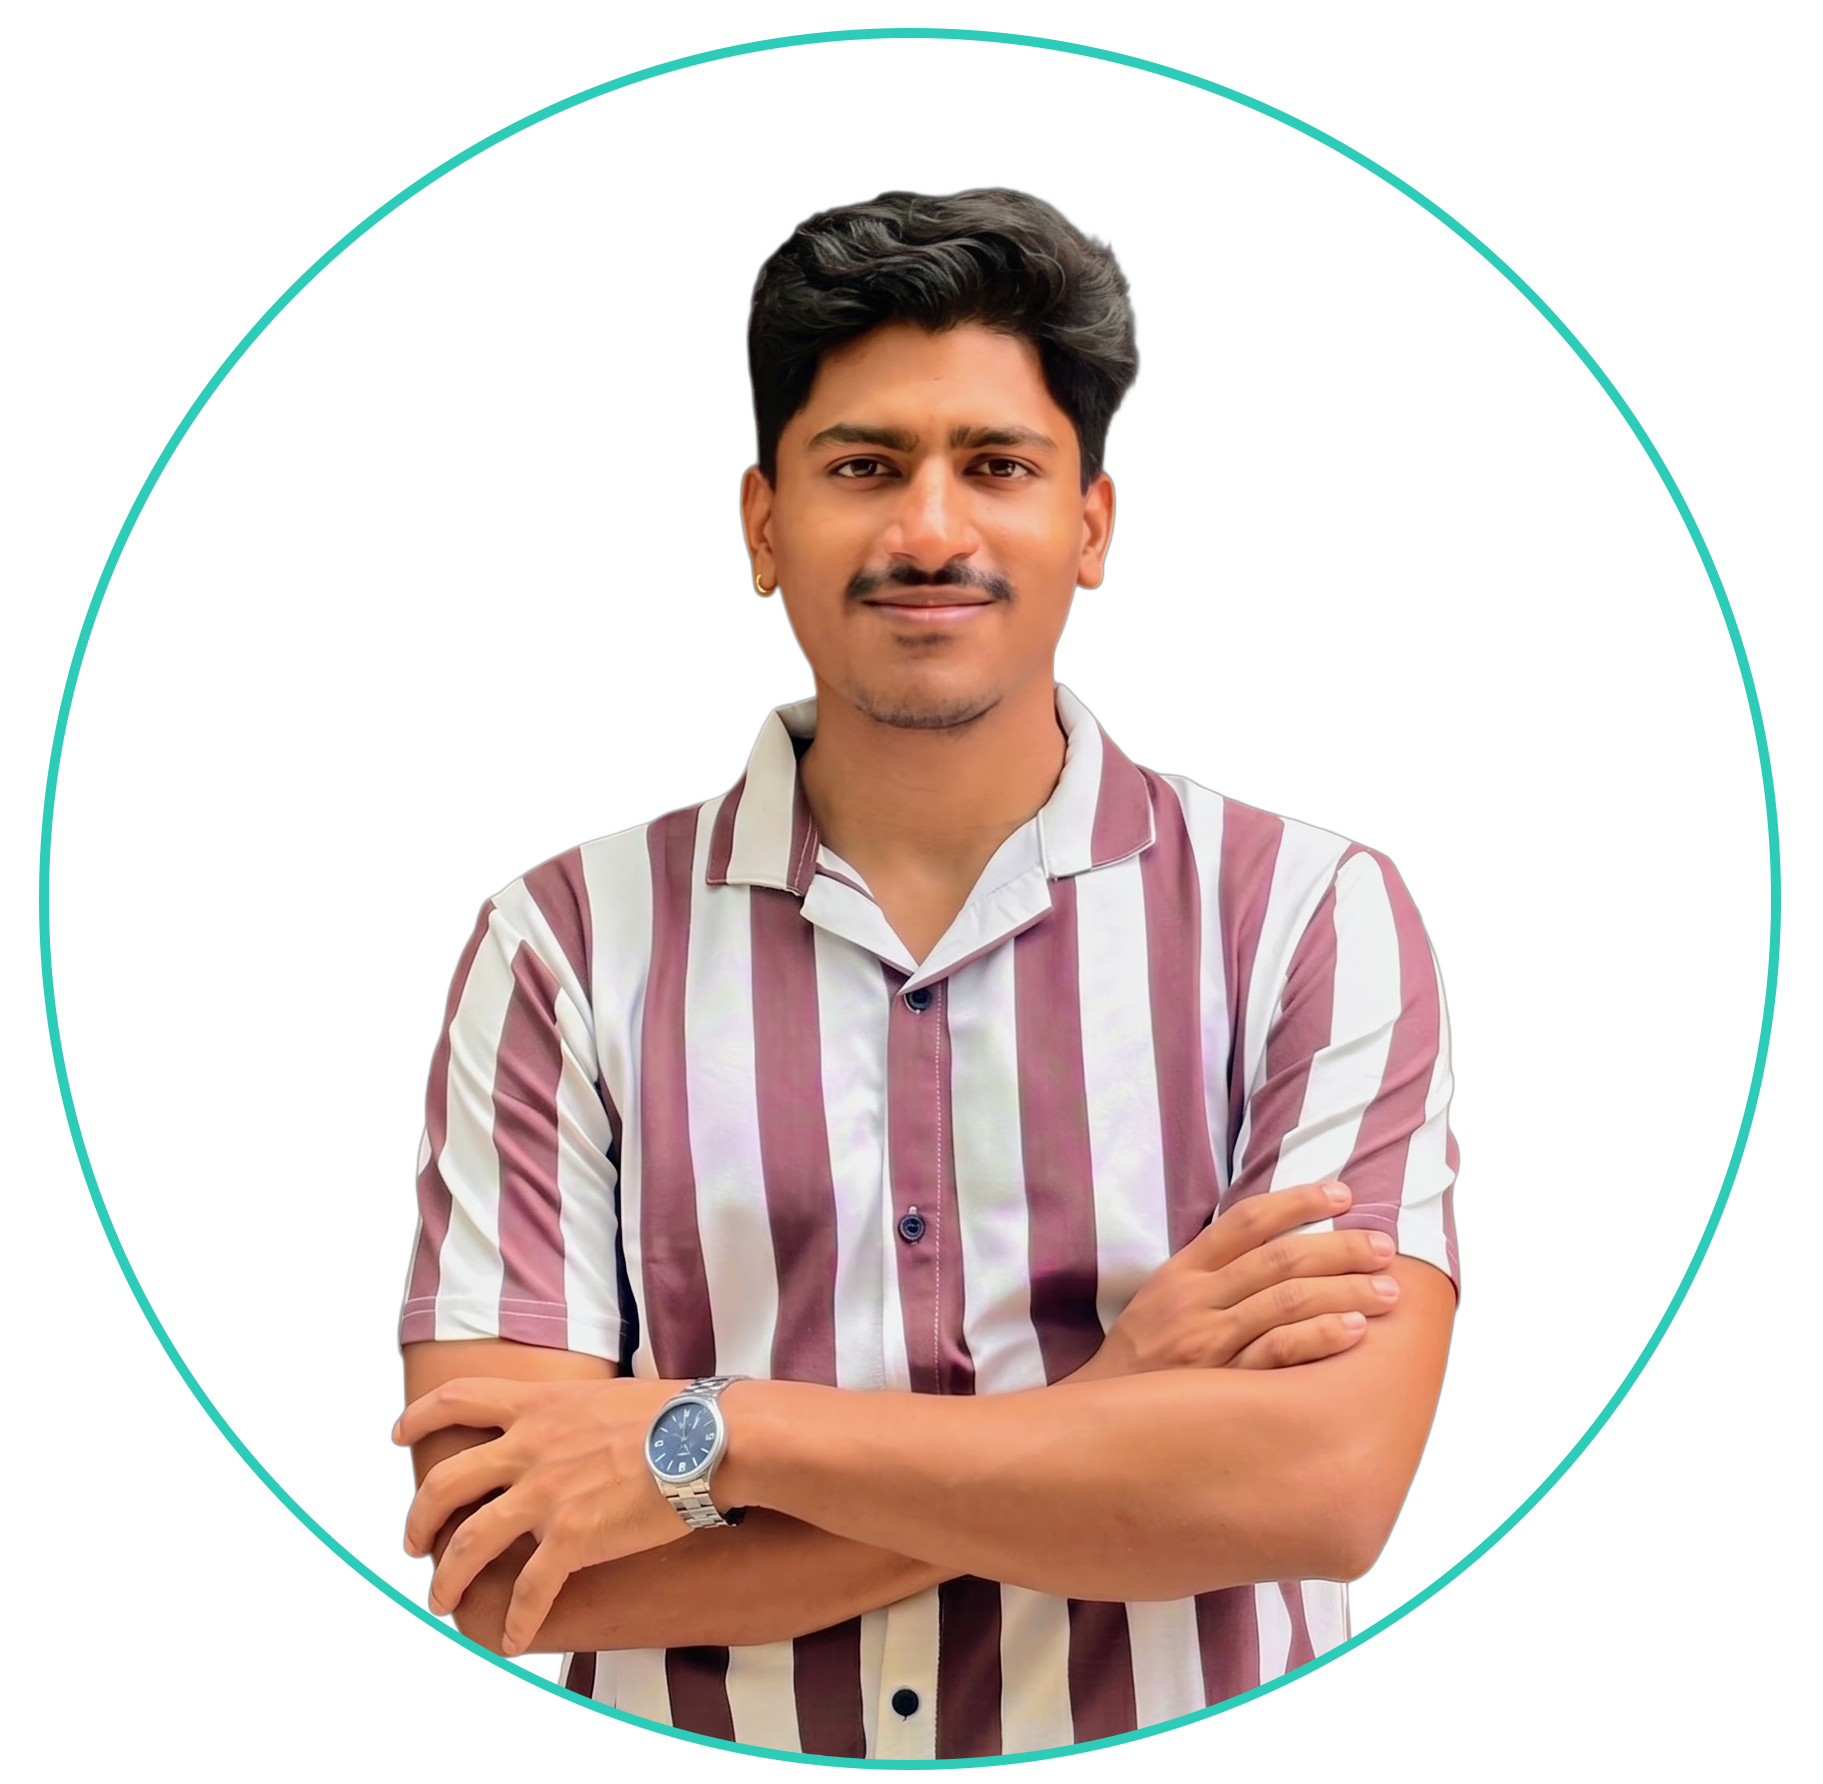
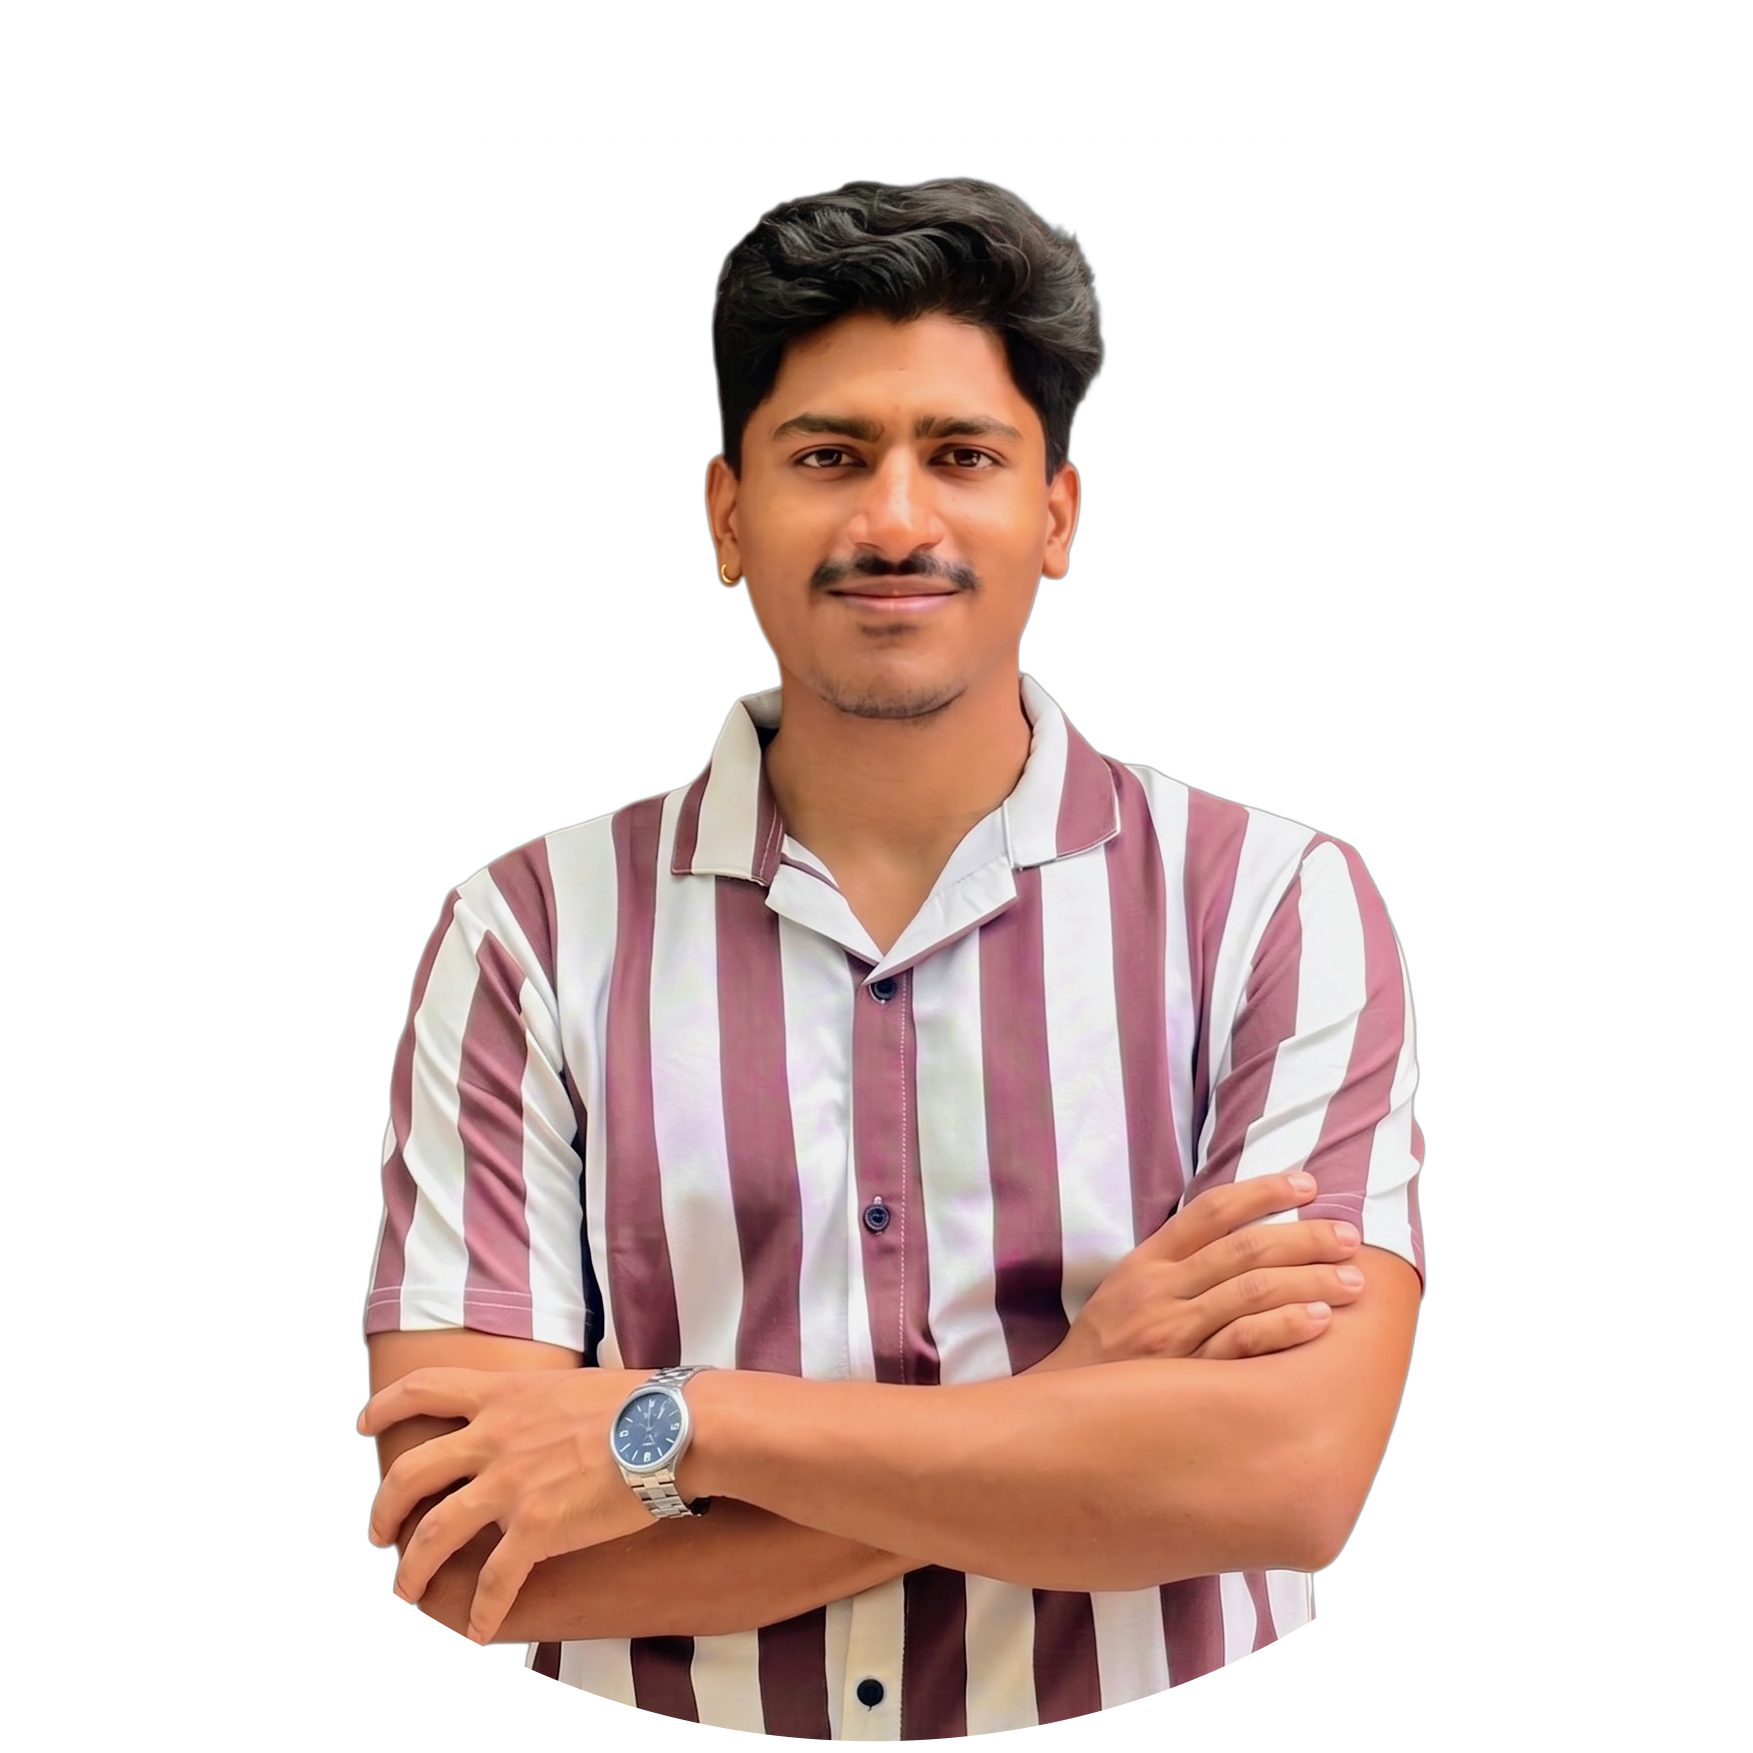
changes

diff --git a/assets/css/main.scss b/assets/css/main.scss
@@ -31,3 +31,20 @@
 @use "tabs";
 @use "teachings";
 @use "typograms";
+
+// Custom profile picture border matching theme Lorenz simulation colors
+.profile img.rounded-circle {
+  outline: 2px solid #0f766e; // Light theme color (dark teal)
+  outline-offset: -2px;       // Inset stroke overlapping the image
+  border: none;
+  padding: 0;
+}
+
+html[data-theme='dark'] {
+  .profile img.rounded-circle {
+    outline-color: #2dd4bf; // Dark theme color (light teal)
+  }
+}
+
+
+

diff --git a/_site/blog/2024/tabs/index.html b/_site/blog/2024/tabs/index.html
@@ -457,7 +457,7 @@ Content 2
 
 <p>With this you can generate visualizations like:</p>
 
-<ul id="log" class="tab" data-tab="ee969548-a7aa-4c12-8e0d-bd50522f991d" data-name="log">
+<ul id="log" class="tab" data-tab="eabba9d7-510f-415e-8861-5de0c6362e7e" data-name="log">
   
       <li class="active" id="log-php">
           <a href="#">php </a>
@@ -472,7 +472,7 @@ Content 2
       </li>
   
 </ul>
-<ul class="tab-content" id="ee969548-a7aa-4c12-8e0d-bd50522f991d" data-name="log">
+<ul class="tab-content" id="eabba9d7-510f-415e-8861-5de0c6362e7e" data-name="log">
   
       <li class="active">
 <div class="language-php highlighter-rouge"><div class="highlight"><pre class="highlight"><code><span class="nb">var_dump</span><span class="p">(</span><span class="s1">'hello'</span><span class="p">);</span>
@@ -496,7 +496,7 @@ Content 2
 
 <h2 id="another-example">Another example</h2>
 
-<ul id="data-struct" class="tab" data-tab="728b37b4-f74c-49a0-b6a3-bcf95ebed746" data-name="data-struct">
+<ul id="data-struct" class="tab" data-tab="2aad1bb4-145f-4a12-8774-54cc4982e449" data-name="data-struct">
   
       <li class="active" id="data-struct-yaml">
           <a href="#">yaml </a>
@@ -507,7 +507,7 @@ Content 2
       </li>
   
 </ul>
-<ul class="tab-content" id="728b37b4-f74c-49a0-b6a3-bcf95ebed746" data-name="data-struct">
+<ul class="tab-content" id="2aad1bb4-145f-4a12-8774-54cc4982e449" data-name="data-struct">
   
       <li class="active">
 <div class="language-yaml highlighter-rouge"><div class="highlight"><pre class="highlight"><code><span class="na">hello</span><span class="pi">:</span>
@@ -529,7 +529,7 @@ Content 2
 
 <h2 id="tabs-for-something-else">Tabs for something else</h2>
 
-<ul id="something-else" class="tab" data-tab="476a77a3-bf63-4c7e-a9d3-a295dadf7c72" data-name="something-else">
+<ul id="something-else" class="tab" data-tab="baa265c8-784b-45c9-89eb-4cfbfb2b1a6a" data-name="something-else">
   
       <li class="active" id="something-else-text">
           <a href="#">text </a>
@@ -544,7 +544,7 @@ Content 2
       </li>
   
 </ul>
-<ul class="tab-content" id="476a77a3-bf63-4c7e-a9d3-a295dadf7c72" data-name="something-else">
+<ul class="tab-content" id="baa265c8-784b-45c9-89eb-4cfbfb2b1a6a" data-name="something-else">
   
       <li class="active">
 <p>Regular text</p>
@@ -1457,6 +1457,6 @@ ninja.data = [{
 
 
 
-    <script src="/assets/js/lorenz.js?v=f0f237bc21187e398207642100ad08a1"></script>
+    <script src="/assets/js/lorenz.js?v=a3f06c022c6e886938c0b15233e5df73"></script>
   </body>
 </html>

diff --git a/_site/index.html b/_site/index.html
@@ -403,7 +403,7 @@
       https://developer.mozilla.org/en-US/docs/Learn/HTML/Multimedia_and_embedding/Responsive_images for info on defining 'sizes' for responsive images
     -->
     
-    <img src="/assets/img/prof_pic.png?v=490a0eeed1ea5d379cd803facb9ba627" class="img-fluid rounded" width="100%" height="auto" alt="prof_pic.png" loading="eager" onerror="this.onerror=null; document.querySelectorAll('.responsive-img-srcset').forEach(function (n) { n.remove(); });">
+    <img src="/assets/img/prof_pic.png?v=87b77c5f23124163619d83b43b0dbbad" class="img-fluid rounded-circle" width="100%" height="auto" alt="prof_pic.png" loading="eager" onerror="this.onerror=null; document.querySelectorAll('.responsive-img-srcset').forEach(function (n) { n.remove(); });">
   </picture>
 
   
@@ -412,7 +412,11 @@
         
         
           <div class="more-info">
-<p>370 Jay Street</p> <p>NYU Tandon School of Engineering</p> <p>Brooklyn, New York 11201, USA</p>
+<div style="font-size: 0.8rem; line-height: 1.4;">
+  <p>370 Jay Street</p>
+  <p>NYU Tandon School of Engineering</p>
+  <p>Brooklyn, New York 11201, USA</p>
+</div>
 </div>
         
       </div>
@@ -1478,6 +1482,6 @@ ninja.data = [{
 
 
 
-    <script src="/assets/js/lorenz.js?v=f0f237bc21187e398207642100ad08a1"></script>
+    <script src="/assets/js/lorenz.js?v=a3f06c022c6e886938c0b15233e5df73"></script>
   </body>
 </html>

diff --git a/assets/js/lorenz.js b/assets/js/lorenz.js
@@ -102,10 +102,10 @@
 
             // Opacity scales up towards the front of the path
             const ratio = j / p.history.length;
-            const opacity = ratio * (isDark ? 0.25 : 0.35);
+            const opacity = ratio * (isDark ? 0.9 : 1.0);
 
             ctx.strokeStyle = isDark ? `rgba(45, 212, 191, ${opacity})` : `rgba(15, 118, 110, ${opacity})`;
-            ctx.lineWidth = 2.6 * ratio; // Taper line slightly towards the tail
+            ctx.lineWidth = 1.6 * ratio; // Taper line slightly towards the tail
             ctx.stroke();
           }
         }

diff --git a/_site/404.html b/_site/404.html
@@ -1183,6 +1183,6 @@ ninja.data = [{
 
 
 
-    <script src="/assets/js/lorenz.js?v=f0f237bc21187e398207642100ad08a1"></script>
+    <script src="/assets/js/lorenz.js?v=a3f06c022c6e886938c0b15233e5df73"></script>
   </body>
 </html>

diff --git a/_site/assets/js/lorenz.js b/_site/assets/js/lorenz.js
@@ -1,1 +1,1 @@
-!function(){function t(){const t=document.documentElement.getAttribute("data-theme")||"light";m="dark"===t}function e(){o.width=window.innerWidth,o.height=window.innerHeight}function n(){i.clearRect(0,0,o.width,o.height);const t=5e-5*Date.now(),e=Math.cos(t),u=Math.sin(t),g=.016*Math.min(o.width,o.height),x=o.width/2,w=o.height/2;for(let t=0;t<y;t++){const n=l[t],o=r*(n.y-n.x)*d,h=(n.x*(a-n.z)-n.y)*d,y=(n.x*n.y-s*n.z)*d;n.x+=o,n.y+=h,n.z+=y;const M=x+(n.x*e-(n.z-25)*u)*g,f=w-n.y*g;if(n.history.push({x:M,y:f}),n.history.length>c&&n.history.shift(),n.history.length>1)for(let t=1;t<n.history.length;t++){const e=n.history[t-1],o=n.history[t];if(Math.hypot(o.x-e.x,o.y-e.y)<100){i.beginPath(),i.moveTo(e.x,e.y),i.lineTo(o.x,o.y);const h=t/n.history.length,r=h*(m?.25:.35);i.strokeStyle=m?`rgba(45, 212, 191, ${r})`:`rgba(15, 118, 110, ${r})`,i.lineWidth=2.6*h,i.stroke()}}(isNaN(n.x)||Math.abs(n.x)>100)&&(n.x=10*(Math.random()-.5),n.y=10*(Math.random()-.5),n.z=20+10*(Math.random()-.5),n.history=[])}h=requestAnimationFrame(n)}const o=document.getElementById("lorenz-canvas");if(!o)return;const i=o.getContext("2d");let h;const r=10,a=28,s=8/3,d=.0025,y=50,c=50,l=[];let m=!1;new MutationObserver(t).observe(document.documentElement,{attributes:!0,attributeFilter:["data-theme","class"]}),t();for(let t=0;t<y;t++)l.push({x:20*(Math.random()-.5),y:20*(Math.random()-.5),z:20+10*(Math.random()-.5),history:[]});window.addEventListener("resize",e),e(),n()}();
+!function(){function t(){const t=document.documentElement.getAttribute("data-theme")||"light";m="dark"===t}function e(){o.width=window.innerWidth,o.height=window.innerHeight}function n(){i.clearRect(0,0,o.width,o.height);const t=5e-5*Date.now(),e=Math.cos(t),u=Math.sin(t),g=.016*Math.min(o.width,o.height),x=o.width/2,w=o.height/2;for(let t=0;t<y;t++){const n=l[t],o=r*(n.y-n.x)*d,h=(n.x*(a-n.z)-n.y)*d,y=(n.x*n.y-s*n.z)*d;n.x+=o,n.y+=h,n.z+=y;const M=x+(n.x*e-(n.z-25)*u)*g,f=w-n.y*g;if(n.history.push({x:M,y:f}),n.history.length>c&&n.history.shift(),n.history.length>1)for(let t=1;t<n.history.length;t++){const e=n.history[t-1],o=n.history[t];if(Math.hypot(o.x-e.x,o.y-e.y)<100){i.beginPath(),i.moveTo(e.x,e.y),i.lineTo(o.x,o.y);const h=t/n.history.length,r=h*(m?.9:1);i.strokeStyle=m?`rgba(45, 212, 191, ${r})`:`rgba(15, 118, 110, ${r})`,i.lineWidth=1.6*h,i.stroke()}}(isNaN(n.x)||Math.abs(n.x)>100)&&(n.x=10*(Math.random()-.5),n.y=10*(Math.random()-.5),n.z=20+10*(Math.random()-.5),n.history=[])}h=requestAnimationFrame(n)}const o=document.getElementById("lorenz-canvas");if(!o)return;const i=o.getContext("2d");let h;const r=10,a=28,s=8/3,d=.0025,y=50,c=50,l=[];let m=!1;new MutationObserver(t).observe(document.documentElement,{attributes:!0,attributeFilter:["data-theme","class"]}),t();for(let t=0;t<y;t++)l.push({x:20*(Math.random()-.5),y:20*(Math.random()-.5),z:20+10*(Math.random()-.5),history:[]});window.addEventListener("resize",e),e(),n()}();

diff --git a/_site/assets/jupyter/blog.ipynb.html b/_site/assets/jupyter/blog.ipynb.html
@@ -3,7 +3,7 @@
 <html lang="en">
 <head><meta charset="utf-8"/>
 <meta content="width=device-width, initial-scale=1.0" name="viewport"/>
-<title>jekyll-jupyter-notebook20260709-48184-n00zt8</title><script src="https://cdnjs.cloudflare.com/ajax/libs/require.js/2.1.10/require.min.js"></script>
+<title>jekyll-jupyter-notebook20260709-48184-d2f4fo</title><script src="https://cdnjs.cloudflare.com/ajax/libs/require.js/2.1.10/require.min.js"></script>
 <style type="text/css">
     pre { line-height: 125%; }
 td.linenos .normal { color: inherit; background-color: transparent; padding-left: 5px; padding-right: 5px; }

diff --git a/_site/blog/2015/code/index.html b/_site/blog/2015/code/index.html
@@ -1424,6 +1424,6 @@ ninja.data = [{
 
 
 
-    <script src="/assets/js/lorenz.js?v=f0f237bc21187e398207642100ad08a1"></script>
+    <script src="/assets/js/lorenz.js?v=a3f06c022c6e886938c0b15233e5df73"></script>
   </body>
 </html>

diff --git a/_site/blog/2015/disqus-comments/index.html b/_site/blog/2015/disqus-comments/index.html
@@ -1249,6 +1249,6 @@ ninja.data = [{
 
 
 
-    <script src="/assets/js/lorenz.js?v=f0f237bc21187e398207642100ad08a1"></script>
+    <script src="/assets/js/lorenz.js?v=a3f06c022c6e886938c0b15233e5df73"></script>
   </body>
 </html>

diff --git a/_site/blog/2015/formatting-and-links/index.html b/_site/blog/2015/formatting-and-links/index.html
@@ -1355,6 +1355,6 @@ ninja.data = [{
 
 
 
-    <script src="/assets/js/lorenz.js?v=f0f237bc21187e398207642100ad08a1"></script>
+    <script src="/assets/js/lorenz.js?v=a3f06c022c6e886938c0b15233e5df73"></script>
   </body>
 </html>

diff --git a/_site/blog/2015/images/index.html b/_site/blog/2015/images/index.html
@@ -1472,6 +1472,6 @@ ninja.data = [{
 
 
 
-    <script src="/assets/js/lorenz.js?v=f0f237bc21187e398207642100ad08a1"></script>
+    <script src="/assets/js/lorenz.js?v=a3f06c022c6e886938c0b15233e5df73"></script>
   </body>
 </html>

diff --git a/_site/blog/2015/index.html b/_site/blog/2015/index.html
@@ -1224,6 +1224,6 @@ ninja.data = [{
 
 
 
-    <script src="/assets/js/lorenz.js?v=f0f237bc21187e398207642100ad08a1"></script>
+    <script src="/assets/js/lorenz.js?v=a3f06c022c6e886938c0b15233e5df73"></script>
   </body>
 </html>